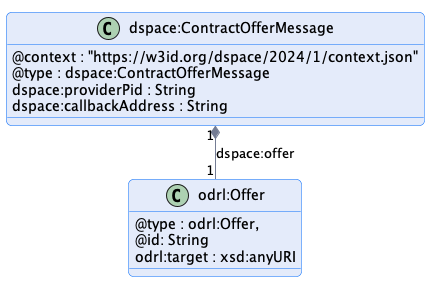
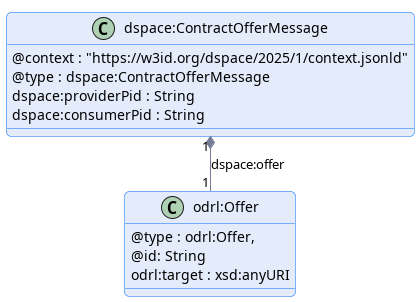
fix: removes mandatory callbackAddress from ContractOfferMessage

Changed region(s): [[0.0, 0.0284, 0.9905, 0.5106], [0.2786, 0.5674, 0.7119, 0.9929], [0.4952, 0.5106, 0.681, 0.5674]]

diff --git a/artifacts/src/test/java/org/eclipse/dsp/schema/negotiation/InvalidContractOfferMessageSchemaTest.java b/artifacts/src/test/java/org/eclipse/dsp/schema/negotiation/InvalidContractOfferMessageSchemaTest.java
@@ -26,7 +26,10 @@ public class InvalidContractOfferMessageSchemaTest extends AbstractSchemaTest {
     @Test
     void verifyInvalidCases() {
         assertThat(schema.validate(INVALID_MESSAGE_NO_TARGET, JSON).iterator().next().getType()).isEqualTo(REQUIRED);
-        assertThat(schema.validate(INVALID_MESSAGE_NO_CALLBACK, JSON).iterator().next().getType()).isEqualTo(REQUIRED);
+        assertThat(schema.validate(INVALID_MESSAGE_NO_CALLBACK_NO_CONSUMER_PID, JSON))
+                .hasSize(3)
+                .extracting(this::errorExtractor)
+                .contains(error("callbackAddress", REQUIRED), error("consumerPid", REQUIRED));
     }
 
     @BeforeEach
@@ -55,14 +58,13 @@ public class InvalidContractOfferMessageSchemaTest extends AbstractSchemaTest {
             }
             """;
 
-    private static final String INVALID_MESSAGE_NO_CALLBACK = """
+    private static final String INVALID_MESSAGE_NO_CALLBACK_NO_CONSUMER_PID = """
             {
               "@context": [
                 "https://w3id.org/dspace/2025/1/context.jsonld"
               ],
               "@type": "ContractOfferMessage",
               "providerPid": "urn:uuid:a343fcbf-99fc-4ce8-8e9b-148c97605aab",
-              "consumerPid": "urn:uuid:32541fe6-c580-409e-85a8-8a9a32fbe833",
               "offer": {
                 "@type": "Offer",
                 "@id": "urn:uuid:6bcea82e-c509-443d-ba8c-8eef25984c07",

diff --git a/artifacts/src/test/java/org/eclipse/dsp/schema/fixtures/AbstractSchemaTest.java b/artifacts/src/test/java/org/eclipse/dsp/schema/fixtures/AbstractSchemaTest.java
@@ -18,6 +18,7 @@ import com.fasterxml.jackson.databind.ObjectMapper;
 import com.networknt.schema.JsonSchema;
 import com.networknt.schema.JsonSchemaFactory;
 import com.networknt.schema.SchemaLocation;
+import com.networknt.schema.ValidationMessage;
 
 import static com.networknt.schema.SpecVersion.VersionFlag.V202012;
 import static org.eclipse.dsp.DspConstants.DSP_PREFIX;
@@ -44,5 +45,17 @@ public abstract class AbstractSchemaTest {
         );
 
         schema = schemaFactory.getSchema(SchemaLocation.of(DSP_PREFIX + schemaFile));
+    }
+
+    protected SchemaError errorExtractor(ValidationMessage validationMessage) {
+        return new SchemaError(validationMessage.getProperty(), validationMessage.getType());
+    }
+
+    protected SchemaError error(String property, String type) {
+        return new SchemaError(property, type);
+    }
+
+    public record SchemaError(String property, String type) {
+
     }
 }
